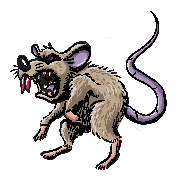
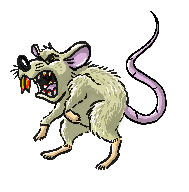
Add rat crab and roper monster artwork

diff --git a/cycle-quest/game.js b/cycle-quest/game.js
@@ -73,8 +73,8 @@ function patchMarkup(host,markup){
  const template=host.ownerDocument.createElement('template');template.innerHTML=markup;
  function patch(parent,wanted){const incoming=Array.from(wanted.childNodes);incoming.forEach((next,i)=>{let current=parent.childNodes[i];if(!current){parent.appendChild(next.cloneNode(true));return;}if(current.nodeType!==next.nodeType||(current.nodeType===1&&current.tagName!==next.tagName)){parent.replaceChild(next.cloneNode(true),current);return;}if(current.nodeType===3){if(current.nodeValue!==next.nodeValue)current.nodeValue=next.nodeValue;return;}if(current.nodeType!==1)return;for(const attr of Array.from(current.attributes))if(!next.hasAttribute(attr.name))current.removeAttribute(attr.name);for(const attr of Array.from(next.attributes))if(current.getAttribute(attr.name)!==attr.value)current.setAttribute(attr.name,attr.value);patch(current,next);});while(parent.childNodes.length>incoming.length)parent.lastChild.remove();}patch(host,template.content);
 }
-function monsterArt(b){const enemies=Array.isArray(b.enemies)?b.enemies:[{id:b.monsterId,name:b.name,hp:b.hp,max:b.max}];const art=enemies.filter(e=>(e.id==='rat'||e.id==='crab')&&e.hp>0);return art.length?'<div class="cq-art-group" role="group" aria-label="'+art.length+' illustrated enemies">'+art.map(e=>'<div class="cq-rat-card" style="--enemy-health:'+healthColor(e.hp,e.max)+'"><strong class="cq-rat-name">'+safeText(e.name||b.name)+' - LV '+(e.level||b.level||1)+'</strong><img class="cq-rat-art" src="/monsters/'+e.id+'.png" alt="'+safeText(e.name||e.id)+'"><span class="cq-rat-hp">'+fmt(e.hp)+' / '+fmt(e.max)+' HP</span><div class="cq-enemymeter"><i style="width:'+Math.max(0,Math.min(100,e.hp/e.max*100))+'%"></i></div></div>').join('')+'</div>':'';}
-function groupBars(b,compact=false){if(!Array.isArray(b.enemies)||b.enemies.length<=1)return '';const enemies=b.enemies.filter(e=>!['rat','crab'].includes(e.id)||!monsterArt(b));if(!enemies.length)return '';return '<div class="cq-group'+(compact?' cq-group-mini':'')+'">'+enemies.map(e=>'<div style="--enemy-health:'+healthColor(e.hp,e.max)+'"><span>'+safeText(e.name)+' · '+fmt(e.hp)+' HP</span><div class="cq-enemymeter"><i style="width:'+Math.max(0,e.hp/e.max*100)+'%"></i></div></div>').join('')+'</div>';}
+function monsterArt(b){const enemies=Array.isArray(b.enemies)?b.enemies:[{id:b.monsterId,name:b.name,hp:b.hp,max:b.max}];const art=enemies.filter(e=>['rat','crab','roper'].includes(e.id)&&e.hp>0);return art.length?'<div class="cq-art-group" role="group" aria-label="'+art.length+' illustrated enemies">'+art.map(e=>'<div class="cq-rat-card" style="--enemy-health:'+healthColor(e.hp,e.max)+'"><strong class="cq-rat-name">'+safeText(e.name||b.name)+' - LV '+(e.level||b.level||1)+'</strong><img class="cq-rat-art" src="/monsters/'+e.id+'.png" alt="'+safeText(e.name||e.id)+'"><span class="cq-rat-hp">'+fmt(e.hp)+' / '+fmt(e.max)+' HP</span><div class="cq-enemymeter"><i style="width:'+Math.max(0,Math.min(100,e.hp/e.max*100))+'%"></i></div></div>').join('')+'</div>':'';}
+function groupBars(b,compact=false){if(!Array.isArray(b.enemies)||b.enemies.length<=1)return '';const enemies=b.enemies.filter(e=>!['rat','crab','roper'].includes(e.id)||!monsterArt(b));if(!enemies.length)return '';return '<div class="cq-group'+(compact?' cq-group-mini':'')+'">'+enemies.map(e=>'<div style="--enemy-health:'+healthColor(e.hp,e.max)+'"><span>'+safeText(e.name)+' · '+fmt(e.hp)+' HP</span><div class="cq-enemymeter"><i style="width:'+Math.max(0,e.hp/e.max*100)+'%"></i></div></div>').join('')+'</div>';}
 
 
 
